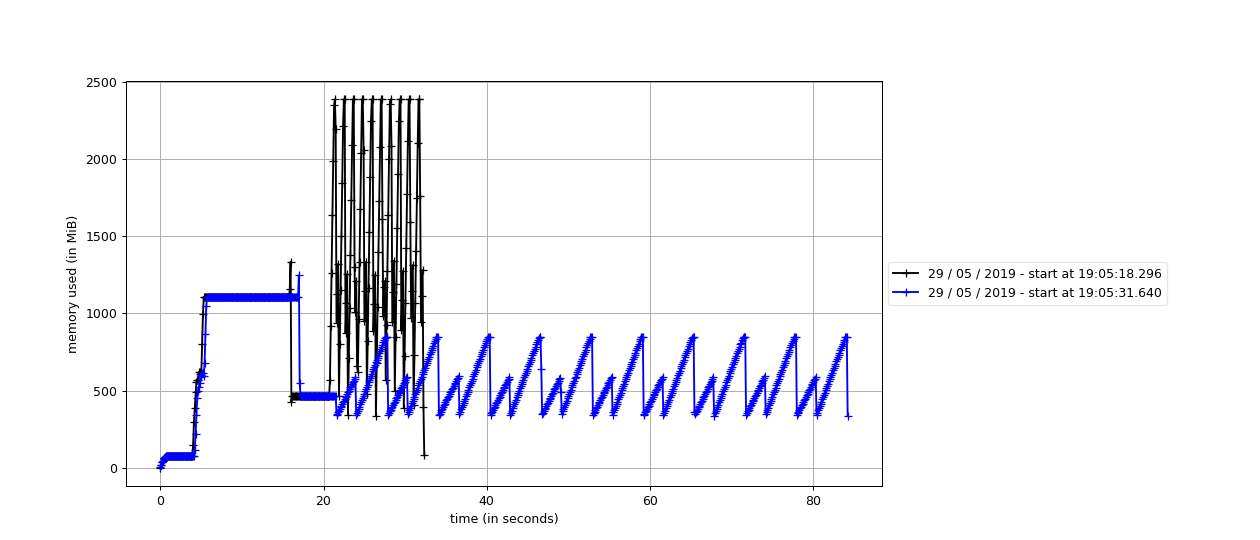
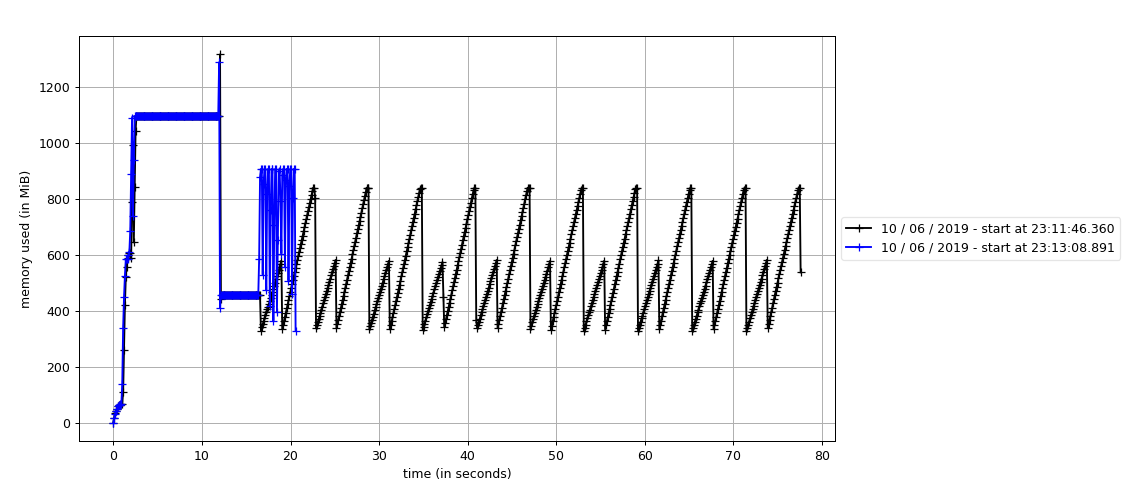
docs: update head to head benchmark

diff --git a/benchmarks/README.md b/benchmarks/README.md
@@ -47,8 +47,8 @@ In this test, `cc3d_test` was run to completion in 385 seconds after loading the
 # 10x Head to Head Comparison  
 
 <p style="font-style: italics;" align="center">
-<img height=384 src="https://github.com/seung-lab/connected-components-3d/blob/master/benchmarks/cc3d_vs_scipy_single_label_10x.png" alt="Fig. 2: SciPy vs cc3d run ten times on a 512x512x512 connectomics segmentation masked to only contain one label. (blue) SciPy 1.2.1 (black) cc3d 1.1.1" /><br>
-Fig. 2: SciPy vs cc3d run ten times on a 512x512x512 connectomics segmentation masked to only contain one label. (blue) SciPy 1.2.1 (black) cc3d 1.1.1
+<img height=384 src="https://github.com/seung-lab/connected-components-3d/blob/master/benchmarks/cc3d_vs_scipy_single_label_10x.png" alt="Fig. 2: SciPy vs cc3d run ten times on a 512x512x512 connectomics segmentation masked to only contain one label. (blue) SciPy 1.2.1 (black) cc3d 1.2.2" /><br>
+Fig. 2: SciPy vs cc3d run ten times on a 512x512x512 connectomics segmentation masked to only contain one label. (blue) SciPy 1.2.1 (black) cc3d 1.2.2
 </p> 
 
 ```python
@@ -73,4 +73,4 @@ for i in tqdm(range(10)):
   scipy.ndimage.measurements.label(labels, structure=s)
 ```
 
-This comparison was performed to show what happens when SciPy and `cc3d` are run on realistic single-label data. Here, we see again the difference in memory usage in SciPy's favor. However, `cc3d` performs each iteration in 1.2 seconds while SciPy takes about 6.2 seconds. In previous experiments (not shown) on dense labels, `cc3d` takes about 1.7 to 1.9 seconds per an iteration, so it becomes faster when the volume is less dense.
+This comparison was performed to show what happens when SciPy and `cc3d` are run on realistic single-label data. `cc3d` performs each iteration in 0.4 seconds while SciPy takes about 6.1 seconds. In previous experiments (not shown) on dense labels, `cc3d` takes about 1.3 seconds per an iteration, so it becomes faster when the volume is less dense. While in previous versions, cc3d used many times more memory than scipy in this experiment, as of version 1.2.2, the memory usage is much more comparable though SciPy is still in the lead.
